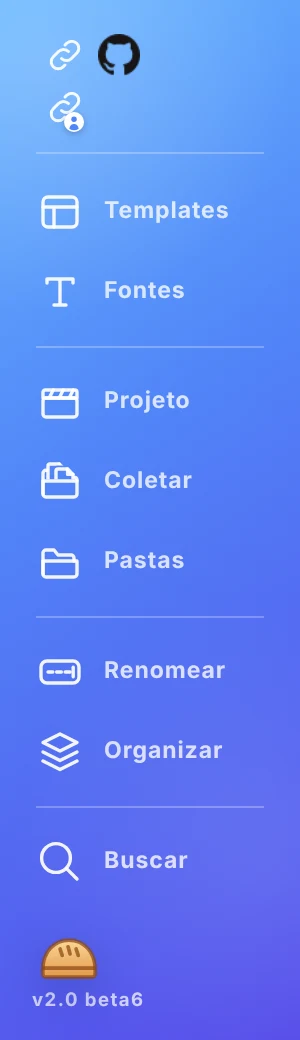
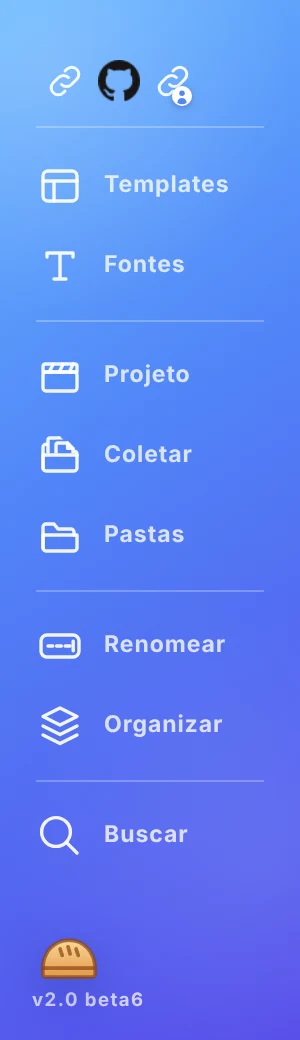
Barra vertical: links de 3 em 3
Claude-Session: https://claude.ai/code/session_01DrYHfUyMEmqYvcFyKefNe2

diff --git a/extension/client/css/bar.css b/extension/client/css/bar.css
@@ -211,7 +211,7 @@ body.bar-page {
   transform: translateY(-1px) scale(1.08);
 }
 
-/* na horizontal, os links ficam numa linha só; na vertical, de 2 em 2 (abaixo, no layout vertical) */
+/* na horizontal, os links ficam numa linha só; na vertical, de 3 em 3 (abaixo, no layout vertical) */
 #links {
   display: grid;
   grid-auto-flow: column;
@@ -400,7 +400,7 @@ body.bar-page {
 
   #links {
     grid-auto-flow: row;
-    grid-template-columns: repeat(2, 26px);
+    grid-template-columns: repeat(3, 26px);
     grid-template-rows: none;
     justify-content: center;
     gap: 0 1px;
